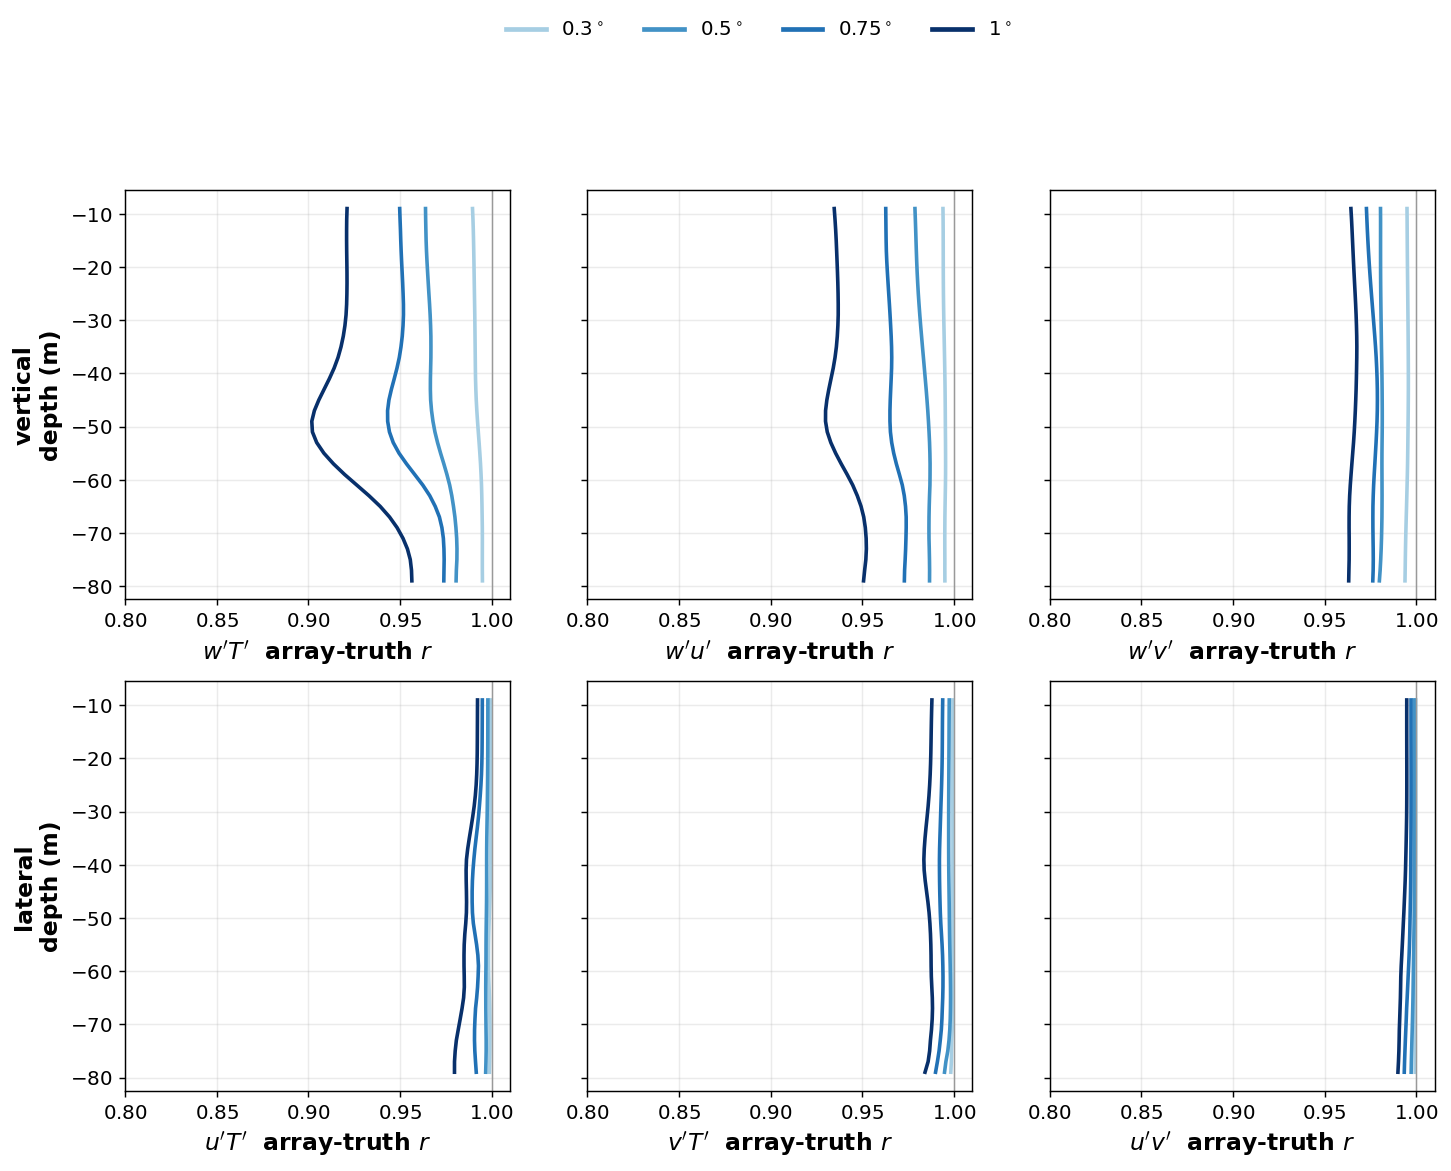
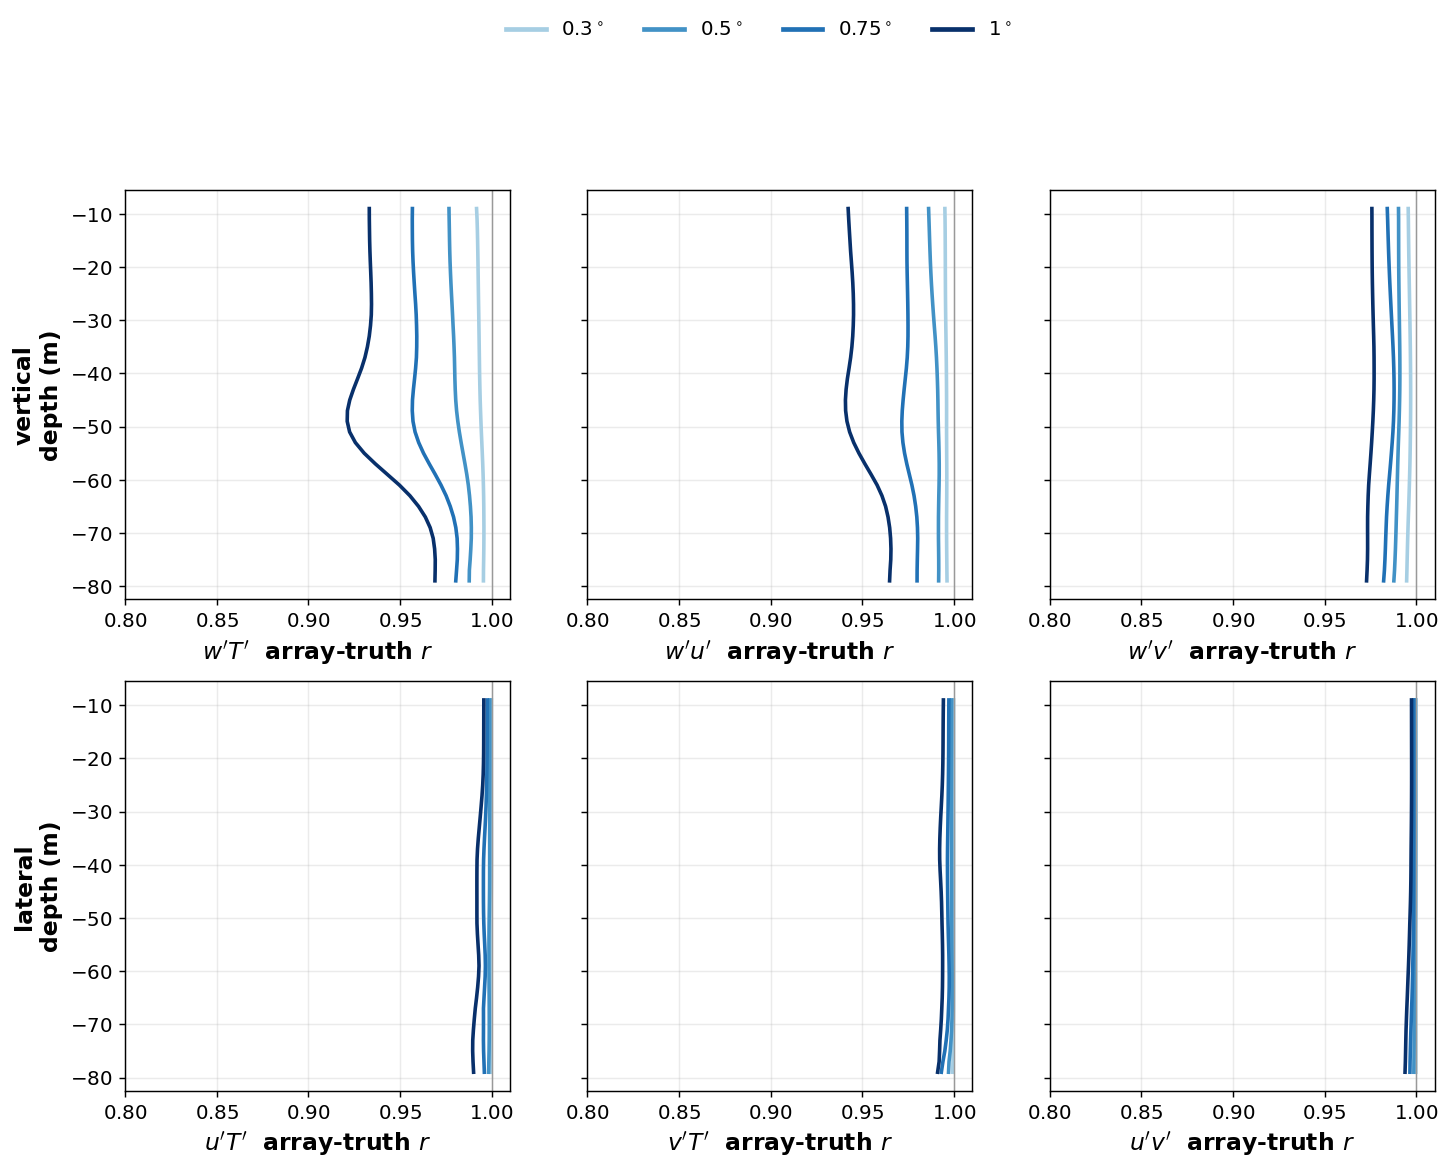
moving old sampling dyanmics to a point_cloud label

diff --git a/sampling_dynamics_point_cloud/run_distributions.py b/sampling_dynamics_point_cloud/run_distributions.py
@@ -9,18 +9,24 @@ placement null (draw n_platform points at random from the truth) so a small samp
 inherent penalty is separated from real geometry effects; plus the first three moments
 (mean, std, skew).  Distributions are also FIT (skew-normal) to summarise shape.
 
-Figures -> distributions/
+The truth is defined two ways, each written to its own subfolder:
+  distributions/array_truth/   truth = the whole disk footprint (every grid point x time).
+  distributions/center_truth/  truth = just the single grid cell at 0degN,140degW x time
+                               (a virtual mooring); the array estimate is unchanged.
+
+Figures (in each subfolder)
   pdf_panels_d{diam}_{depth}.png   array (step) vs truth (filled) PDFs per variable,
                                    annotated JS / Wasserstein and their nulls.
   js_summary.png                   JS - JS_null vs diameter, one line per variable.
   moment_recovery.png              std ratio and skew, array vs truth, vs diameter.
-  fit_distributions.png            skew-normal fits to w, T' and w'T', array vs truth.
-  fit_distributions_shapes_d1.png  the same fits with columns = diamond/square/hexagon
-                                   (equatorial regular arrays) at fixed 1deg diameter.
+  fit_distributions_{depth}.png    skew-normal fits to w, T' and w'T', array vs truth.
+  fit_distributions_shapes_d{d}_{depth}.png  the same fits with columns = diamond/square/
+                                   hexagon (equatorial regular arrays) at fixed diameter.
 
 Usage:  python run_distributions.py
 """
 
+import os
 import re
 
 import numpy as np
@@ -41,6 +47,11 @@ VARS = [('T', 1.0, '$^\\circ$C'), ('S', 1.0, 'g kg$^{-1}$'),
         ('kappaT', 1.0, 'm$^2$ s$^{-1}$'), ('N2', 1.0, 's$^{-2}$')]
 FLAGSHIP = 1.0
 DEPTH = -30.0
+# fit_distributions figures are rendered at each of these depths. -79 m is the deepest
+# sampled 2 m layer (the 78-80 m bin); we label it "80 m" to match the heat-flux depth.
+FIT_DEPTHS = [(-30.0, '30m'), (-79.0, '80m')]
+# diameters at which the cross-shape comparison (diamond/square/hexagon) is drawn
+SHAPE_DIAMS = [0.3, 1.0]
 
 
 def _pool(ds, var, space_dim, z):
@@ -50,9 +61,28 @@ def _pool(ds, var, space_dim, z):
     return np.asarray(da.values).ravel()
 
 
+# --------------------------------------------------------------------------- truth source
+# Two definitions of the model "truth" the array is scored against:
+#   'array'  -> the whole disk footprint (every grid point x time) — spatial variability.
+#   'center' -> just the single grid cell at 0degN,140degW (a virtual mooring) x time.
+def _at_center(cloud):
+    """Subset the disk point cloud to the single grid cell nearest 0degN,140degW."""
+    clat, clon = C.CENTER
+    d2 = (cloud['YC'] - clat) ** 2 + (cloud['XC'] - clon) ** 2
+    return cloud.isel(point=[int(d2.argmin('point'))])
+
+
+def _truth_cloud(cloud, truth):
+    return cloud if truth == 'array' else _at_center(cloud)
+
+
+def _truth_label(truth):
+    return 'model truth (disk)' if truth == 'array' else 'model truth (centre point)'
+
+
 # --------------------------------------------------------------------------- fig 1
-def fig_pdf_panels(out, diam=FLAGSHIP, z=DEPTH):
-    arr = P.load_array(diam); cloud = P.load_cloud(diam)
+def fig_pdf_panels(out, diam=FLAGSHIP, z=DEPTH, truth='array'):
+    arr = P.load_array(diam); cloud = _truth_cloud(P.load_cloud(diam), truth)
     n_plat = arr.sizes['glider']
     fig, axes = plt.subplots(2, 4, figsize=(15, 7.5))
     for ax, (var, scale, unit) in zip(axes.ravel(), VARS):
@@ -71,7 +101,7 @@ def fig_pdf_panels(out, diam=FLAGSHIP, z=DEPTH):
                 transform=ax.transAxes, va='top', fontsize=9,
                 bbox=dict(fc='white', ec='0.8', alpha=0.8))
     axes.ravel()[-1].axis('off')
-    fig.legend(handles=[Line2D([0], [0], color='0.6', lw=8, alpha=0.55, label='model truth (hull)'),
+    fig.legend(handles=[Line2D([0], [0], color='0.6', lw=8, alpha=0.55, label=_truth_label(truth)),
                         Line2D([0], [0], color='#08306b', lw=2.2, label='array samples')],
                loc='upper center', ncol=2, frameon=False, bbox_to_anchor=(0.5, 1.02))
     zlab = 'depth-avg' if z is None else f'{-z:g} m'
@@ -81,13 +111,13 @@ def fig_pdf_panels(out, diam=FLAGSHIP, z=DEPTH):
 
 
 # --------------------------------------------------------------------------- fig 2
-def fig_js_summary(out, z=None):
+def fig_js_summary(out, z=None, truth='array'):
     fig, ax = plt.subplots(figsize=(8.5, 5.5))
     cmap = plt.cm.tab10
     for vi, (var, scale, _) in enumerate(VARS):
         vals = []
         for d in C.DIAMETERS:
-            arr = P.load_array(d); cloud = P.load_cloud(d)
+            arr = P.load_array(d); cloud = _truth_cloud(P.load_cloud(d), truth)
             o = _pool(arr, var, 'glider', z) * scale
             t = _pool(cloud, var, 'point', z) * scale
             js, _ = P.js_wass(o, t); jsn, _ = P.js_wass_null(o, t, arr.sizes['glider'])
@@ -101,13 +131,13 @@ def fig_js_summary(out, z=None):
 
 
 # --------------------------------------------------------------------------- fig 3
-def fig_moment_recovery(out, z=None):
+def fig_moment_recovery(out, z=None, truth='array'):
     fig, axes = plt.subplots(1, 2, figsize=(12, 5))
     cmap = plt.cm.tab10
     for vi, (var, scale, _) in enumerate(VARS):
         sr, ska, skt = [], [], []
         for d in C.DIAMETERS:
-            arr = P.load_array(d); cloud = P.load_cloud(d)
+            arr = P.load_array(d); cloud = _truth_cloud(P.load_cloud(d), truth)
             o = _pool(arr, var, 'glider', z) * scale
             t = _pool(cloud, var, 'point', z) * scale
             mo = P.moments(o); mt = P.moments(t)
@@ -126,40 +156,59 @@ def fig_moment_recovery(out, z=None):
 
 
 # --------------------------------------------------------------------------- fig 4
-def _fit_samples(diam, z, shape='symhex'):
-    """(array, truth) 1-D samples of w, T', w'T' and w'u' at depth z for one config."""
+def _cloud_flux(cloud, avar, bvar, z):
+    """Vertical eddy flux a'b' at depth z from the point cloud (per-point time anomalies)."""
+    ap = cloud[avar] - cloud[avar].mean('time')
+    bp = cloud[bvar] - cloud[bvar].mean('time')
+    return np.asarray((ap * bp).interp(obs_depth=z).values).ravel()
+
+
+def _fit_samples(diam, z, shape='symhex', truth='array'):
+    """(array, truth) 1-D samples of w, T', w'T' and w'u' at depth z for one config.
+
+    truth='array' scores against the whole disk footprint (cloud pool + disk-mean flux
+    from `hull`); truth='center' scores against the single centre grid cell only.
+    """
     import run_transport as T
     arr = P.load_array(diam, shape); hull = P.load_hull(diam, shape)
-    cloud = P.load_cloud(diam, shape)
+    cloud = _truth_cloud(P.load_cloud(diam, shape), truth)
 
     def anom(ds):                                       # pooled T fluctuation about time mean
         a = (ds['T'] - ds['T'].mean('time')).interp(obs_depth=z)
         return np.asarray(a.values).ravel()
 
+    def tflux(bvar, hullkey):                            # truth vertical eddy flux w'b'
+        if truth == 'array':
+            return np.asarray(hull[hullkey].interp(obs_depth=z).values).ravel()
+        return _cloud_flux(cloud, 'W', bvar, z)
+
     w = (np.asarray(arr['w_est_mid'].interp(obs_depth=z).values).ravel() * C.SEC_PER_DAY,
          _pool(cloud, 'W', 'point', z) * C.SEC_PER_DAY)
     Tp = (anom(arr), anom(cloud))
     wT = (np.asarray(T.array_vert_flux(arr, 'w_est_mid', 'T').interp(obs_depth=z).values).ravel() * C.HFLUX,
-          np.asarray(hull['wT'].interp(obs_depth=z).values).ravel() * C.HFLUX)
+          tflux('T', 'wT') * C.HFLUX)
     wU = (np.asarray(T.array_vert_flux(arr, 'w_est_mid', 'U').interp(obs_depth=z).values).ravel(),
-          np.asarray(hull['wU'].interp(obs_depth=z).values).ravel())
+          tflux('U', 'wU'))
     return {'w (m day$^{-1}$)': w, "$T'$ ($^\\circ$C)": Tp,
             "$w'T'$ (W m$^{-2}$)": wT, "$w'u'$ (m$^2$ s$^{-2}$)": wU}
 
 
-def _fit_samples_uv(diam, z, shape='symhex'):
+def _fit_samples_uv(diam, z, shape='symhex', truth='array'):
     """(array, truth) 1-D samples of u', v' and the lateral fluxes u'v', u'T', v'T'."""
     import run_transport as T
     arr = P.load_array(diam, shape); hull = P.load_hull(diam, shape)
-    cloud = P.load_cloud(diam, shape)
+    cloud = _truth_cloud(P.load_cloud(diam, shape), truth)
 
     def anom(ds, var):                                  # pooled temporal fluctuation
         a = (ds[var] - ds[var].mean('time')).interp(obs_depth=z)
         return np.asarray(a.values).ravel()
 
-    def latflux(a, b, key, scale=1.0):                  # array (platform a'b') vs hull truth
+    def latflux(a, b, key, scale=1.0):                  # array (platform a'b') vs truth
         ar = np.asarray(T.array_lat_flux(arr, a, b).interp(obs_depth=z).values).ravel()
-        tr = np.asarray(hull[key].interp(obs_depth=z).values).ravel()
+        if truth == 'array':
+            tr = np.asarray(hull[key].interp(obs_depth=z).values).ravel()
+        else:
+            tr = _cloud_flux(cloud, a, b, z)
         return (ar * scale, tr * scale)
 
     return {"$u'$ (m s$^{-1}$)": (anom(arr, 'U'), anom(cloud, 'U')),
@@ -295,52 +344,66 @@ def _shape_title(diam):
     return lambda s: f'{C.SHAPE_LABEL[s]} ({diam:g}$^\\circ$)'
 
 
-def fig_fit(out, z=DEPTH):
-    """Skew-normal fits to w, T', w'T', w'u' (rows), one column per diameter (30 m)."""
-    per_diam = {d: _fit_samples(d, z) for d in C.DIAMETERS}
-    return _fit_grid(out, per_diam, C.DIAMETERS, _diam_title, 'fit_distributions.png')
+def fig_fit(out, z=DEPTH, tag='30m', truth='array'):
+    """Skew-normal fits to w, T', w'T', w'u' (rows), one column per diameter."""
+    per_diam = {d: _fit_samples(d, z, truth=truth) for d in C.DIAMETERS}
+    return _fit_grid(out, per_diam, C.DIAMETERS, _diam_title, f'fit_distributions_{tag}.png')
 
 
-def fig_fit_uv(out, z=DEPTH):
+def fig_fit_uv(out, z=DEPTH, tag='30m', truth='array'):
     """Fits to u', v', u'v', u'T', v'T' (rows), one column per diameter.
 
     The oscillatory u'/v' rows get a bimodal (2-Gaussian) fit; the skewed flux rows
     keep the skew-normal.
     """
-    per_diam = {d: _fit_samples_uv(d, z) for d in C.DIAMETERS}
-    return _fit_grid(out, per_diam, C.DIAMETERS, _diam_title, 'fit_distributions_uv.png',
+    per_diam = {d: _fit_samples_uv(d, z, truth=truth) for d in C.DIAMETERS}
+    return _fit_grid(out, per_diam, C.DIAMETERS, _diam_title, f'fit_distributions_uv_{tag}.png',
                      bimodal_labels=UV_BIMODAL)
 
 
-def fig_fit_shapes(out, diam=FLAGSHIP, z=DEPTH):
+def fig_fit_shapes(out, diam=FLAGSHIP, z=DEPTH, tag='30m', truth='array'):
     """Cross-shape comparison of w, T', w'T', w'u' fits at fixed diameter.
 
     Columns = diamond / square / hexagon (all centred at 0degN,140degW); the equatorial
     regular arrays sampling the SAME nominal footprint.
     """
-    per_col = {s: _fit_samples(diam, z, s) for s in SHAPES}
+    per_col = {s: _fit_samples(diam, z, s, truth=truth) for s in SHAPES}
     return _fit_grid(out, per_col, SHAPES, _shape_title(diam),
-                     f'fit_distributions_shapes_d{diam:g}.png', col_colors=C.SHAPE_COLOR)
+                     f'fit_distributions_shapes_d{diam:g}_{tag}.png', col_colors=C.SHAPE_COLOR)
 
 
-def fig_fit_shapes_uv(out, diam=FLAGSHIP, z=DEPTH):
+def fig_fit_shapes_uv(out, diam=FLAGSHIP, z=DEPTH, tag='30m', truth='array'):
     """Cross-shape comparison of u', v', u'v', u'T', v'T' fits at fixed diameter."""
-    per_col = {s: _fit_samples_uv(diam, z, s) for s in SHAPES}
+    per_col = {s: _fit_samples_uv(diam, z, s, truth=truth) for s in SHAPES}
     return _fit_grid(out, per_col, SHAPES, _shape_title(diam),
-                     f'fit_distributions_shapes_uv_d{diam:g}.png', bimodal_labels=UV_BIMODAL,
+                     f'fit_distributions_shapes_uv_d{diam:g}_{tag}.png', bimodal_labels=UV_BIMODAL,
                      col_colors=C.SHAPE_COLOR)
 
 
+def render_all(out, truth):
+    """Every distribution figure for one truth definition, written under `out`."""
+    print(fig_pdf_panels(out, FLAGSHIP, DEPTH, truth=truth))
+    print(fig_pdf_panels(out, FLAGSHIP, None, truth=truth))
+    print(fig_js_summary(out, truth=truth))
+    print(fig_moment_recovery(out, truth=truth))
+    for z, tag in FIT_DEPTHS:                       # 30 m and (deepest layer) 80 m
+        print(fig_fit(out, z, tag, truth=truth))
+        print(fig_fit_uv(out, z, tag, truth=truth))
+        for d in SHAPE_DIAMS:                        # cross-shape comparison at 0.3 and 1.0
+            print(fig_fit_shapes(out, diam=d, z=z, tag=tag, truth=truth))
+            print(fig_fit_shapes_uv(out, diam=d, z=z, tag=tag, truth=truth))
+
+
+# truth definition -> output subfolder under distributions/
+TRUTHS = [('array', 'array_truth'), ('center', 'center_truth')]
+
+
 def main():
-    out = P.outdir(SUB)
-    print(fig_pdf_panels(out, FLAGSHIP, DEPTH))
-    print(fig_pdf_panels(out, FLAGSHIP, None))
-    print(fig_js_summary(out))
-    print(fig_moment_recovery(out))
-    print(fig_fit(out))
-    print(fig_fit_uv(out))
-    print(fig_fit_shapes(out))
-    print(fig_fit_shapes_uv(out))
+    base = P.outdir(SUB)
+    for truth, sub in TRUTHS:
+        out = os.path.join(base, sub)
+        os.makedirs(out, exist_ok=True)
+        render_all(out, truth)
 
 
 if __name__ == '__main__':

diff --git a/sampling_dynamics_point_cloud/common.py b/sampling_dynamics_point_cloud/common.py
@@ -51,7 +51,9 @@ HERE = os.path.dirname(os.path.abspath(__file__))
 REPO = os.path.dirname(HERE)
 CONFIG_BASE = os.path.join(REPO, 'experiments', 'experiment_1', 'configs')
 CONFIG_DIR = os.path.join(CONFIG_BASE, 'symhex')      # default (symhex) family
-CACHE_DIR = os.path.join(HERE, 'cache')
+# heavy .nc caches live on /data (not /home); see project_sym_disk_truth memory
+CACHE_ROOT = '/data/SO3/edavenport/tpose24-osse/cache'
+CACHE_DIR = os.path.join(CACHE_ROOT, 'sampling_dynamics')
 
 RUN_DIR = '/data/SO3/edavenport/tpose24/oct2012_3mo_dt60_AB3'
 DELTA_T = 60.0
@@ -279,6 +281,18 @@ def select_hull(region, positions):
     lon = region.lon.values
     lat = region.lat.values
     inside = path.contains_points(np.column_stack([lon, lat]))
+    return region.isel(point=np.where(inside)[0])
+
+
+def select_disk(region, diam, center=CENTER):
+    """Subset a region_bbox point cloud to grid points inside the truth disk of radius
+    diam/2 about `center` (lat, lon). This is the circle the symmetric-shape vertices
+    lie on — the shape-independent truth footprint (matching osse_tools._disk_mask and
+    experiment_3's disk truth), replacing the convex-hull-of-the-polygon footprint."""
+    r = diam / 2.0
+    dlat = region.lat.values - center[0]
+    dlon = region.lon.values - center[1]
+    inside = (dlat ** 2 + dlon ** 2) <= r ** 2
     return region.isel(point=np.where(inside)[0])
 
 

diff --git a/sampling_dynamics_point_cloud/run_sample.py b/sampling_dynamics_point_cloud/run_sample.py
@@ -79,8 +79,9 @@ def compute_config(ds, region, diam, shape='symhex'):
     arr.to_netcdf(os.path.join(C.CACHE_DIR, f'{name}_array.nc'))
     sys.stderr.write(f'[{name}] wrote array.nc\n'); sys.stderr.flush()
 
-    # ---- truth: model grid points inside the hexagon hull ----
-    sel = C.select_hull(region, gliders)
+    # ---- truth: model grid points inside the truth disk (radius diam/2 about the
+    #      centre) — the circle the shape vertices lie on, shape-independent ----
+    sel = C.select_disk(region, diam)
     npts = sel.sizes['point']
     prof_vars = [v for v in ['U', 'V', 'T', 'S', 'W', 'nu', 'kappaT', 'N2', 'sigma0']
                  if v in sel]

diff --git a/sampling_dynamics_point_cloud/run_transport.py b/sampling_dynamics_point_cloud/run_transport.py
@@ -127,7 +127,7 @@ def fig_hovmoller(out):
     emax = float(np.nanpercentile(np.abs(np.concatenate(
         [np.abs(data[d][2].values).ravel() for d in C.DIAMETERS])), 99))
 
-    rows = [('model truth (hull)', 0, vmax), ('array estimate', 1, vmax),
+    rows = [('model truth (disk)', 0, vmax), ('array estimate', 1, vmax),
             ('estimate $-$ truth', 2, emax)]
     nc = len(C.DIAMETERS)
     fig, axes = plt.subplots(3, nc, figsize=(4.2 * nc, 9), sharex=True, sharey=True)

diff --git a/sampling_dynamics_point_cloud/run_mixing.py b/sampling_dynamics_point_cloud/run_mixing.py
@@ -124,7 +124,7 @@ def fig_hovmoller(out, tlim=None):
     emax = float(np.nanpercentile(np.abs(np.concatenate(
         [np.abs(data[d]['err'].values).ravel() for d in C.DIAMETERS])), 99))
 
-    rows = [('model truth (hull)', 'truth', 'hbl_t'),
+    rows = [('model truth (disk)', 'truth', 'hbl_t'),
             ('array estimate', 'est', 'hbl_a'),
             ('estimate $-$ truth', 'err', None)]
     nc = len(C.DIAMETERS)
